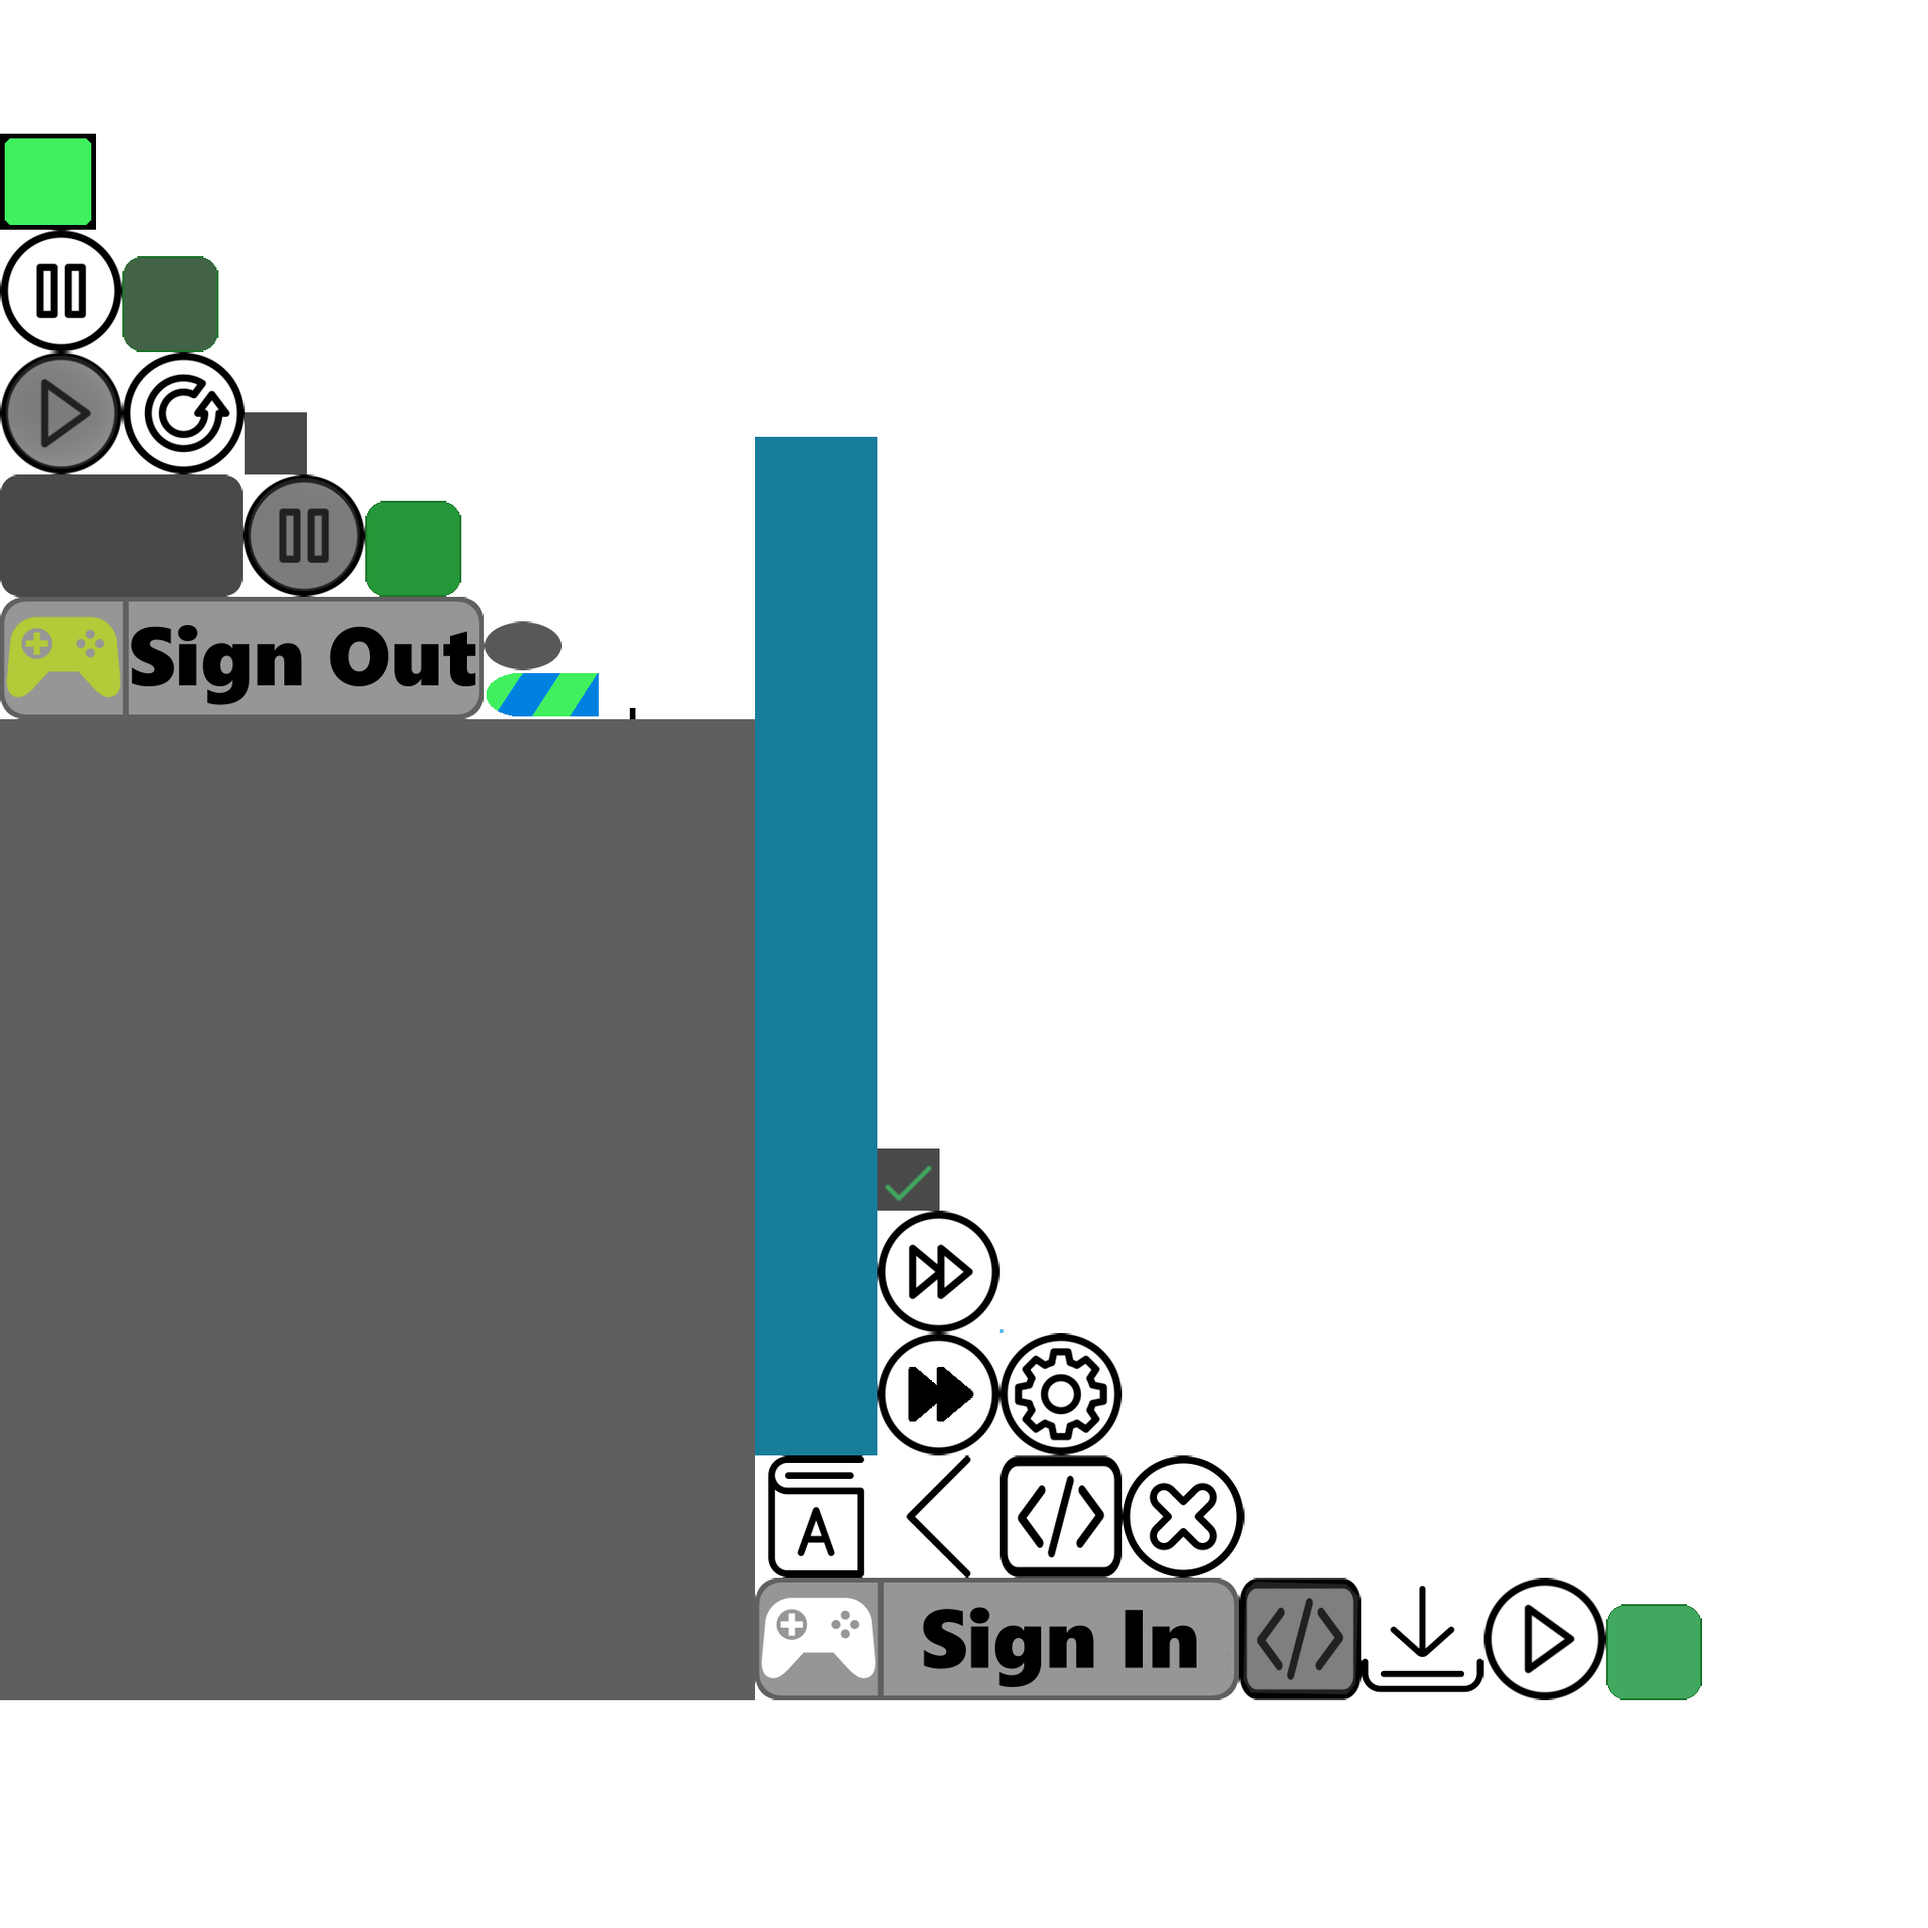
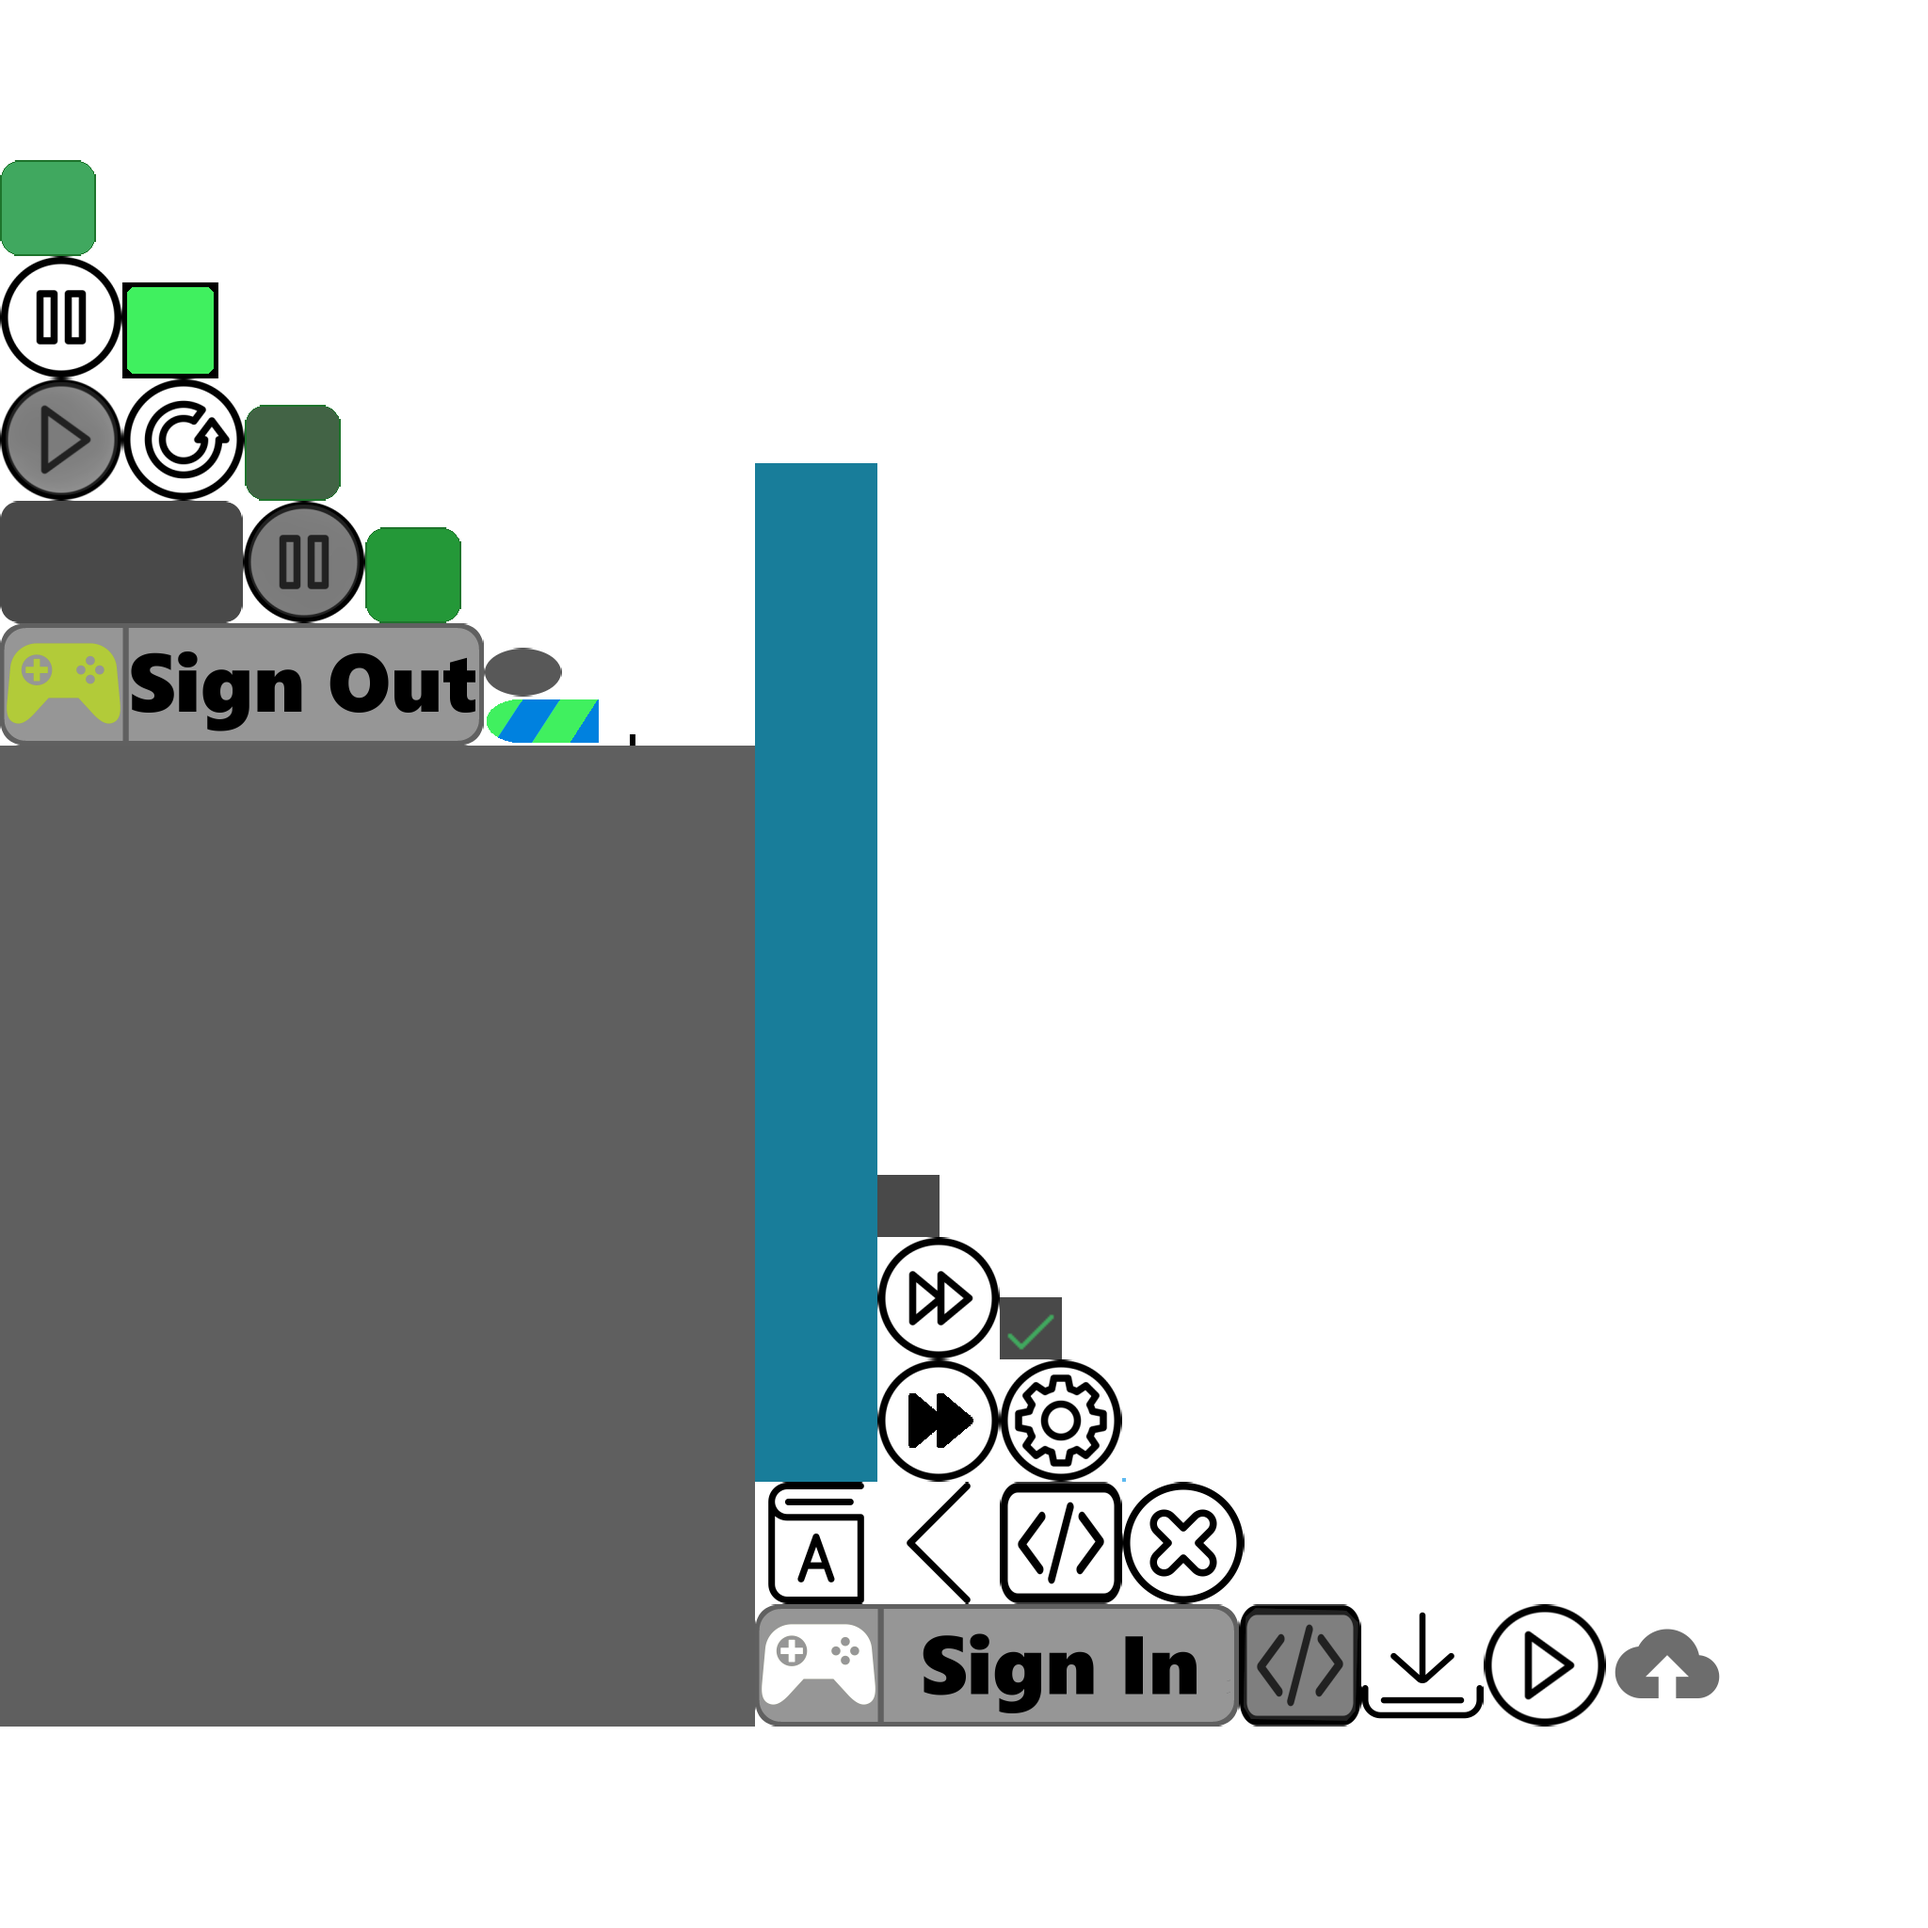
Dedicated Cloud Data screen

Changed region(s): [[0.0, 0.5938, 0.9062, 0.9062], [0.0, 0.0625, 0.4062, 0.4062], [0.375, 0.2188, 0.4688, 0.25]]

diff --git a/core/src/com/thelogicmaster/robot_recharge/screens/CloudScreen.java b/core/src/com/thelogicmaster/robot_recharge/screens/CloudScreen.java
@@ -1,10 +1,81 @@
 package com.thelogicmaster.robot_recharge.screens;
 
+import com.badlogic.gdx.scenes.scene2d.Actor;
+import com.badlogic.gdx.scenes.scene2d.ui.Label;
+import com.badlogic.gdx.scenes.scene2d.ui.Table;
+import com.badlogic.gdx.scenes.scene2d.ui.TextButton;
+import com.badlogic.gdx.scenes.scene2d.utils.ChangeListener;
+import com.badlogic.gdx.utils.Base64Coder;
+import com.thelogicmaster.robot_recharge.GameSave;
+import com.thelogicmaster.robot_recharge.RobotAssets;
+import com.thelogicmaster.robot_recharge.RobotRecharge;
+import com.thelogicmaster.robot_recharge.ui.PaddedTextButton;
+import de.golfgl.gdxgamesvcs.gamestate.ILoadGameStateResponseListener;
+import de.golfgl.gdxgamesvcs.gamestate.ISaveGameStateResponseListener;
+
 public class CloudScreen extends MenuScreen {
+
+    private final Label userLabel;
+    private final TextButton loadButton, saveButton;
 
     public CloudScreen(RobotScreen previousScreen) {
         super(previousScreen);
 
+        Table cloudTable = new Table(skin);
+        cloudTable.setBackground("windowTen");
+        cloudTable.setBounds(uiViewport.getWorldWidth() / 2 - 700, uiViewport.getWorldHeight() / 2 - 400, 1400, 800);
+        cloudTable.pad(30);
 
+        userLabel = new Label("Not Connected", skin);
+        cloudTable.add(userLabel).padBottom(20).row();
+
+        loadButton = new PaddedTextButton("Load Cloud Save", skin);
+        cloudTable.add(loadButton).padBottom(10).row();
+
+        saveButton = new PaddedTextButton("Create Cloud Save", skin);
+        cloudTable.add(saveButton).padBottom(10).row();
+
+        loadButton.addListener(new ChangeListener() {
+            @Override
+            public void changed(ChangeEvent event, Actor actor) {
+                RobotRecharge.gameServices.loadGameState("save", new ILoadGameStateResponseListener() {
+                    @Override
+                    public void gsGameStateLoaded(byte[] gameState) {
+                        if (gameState != null)
+                            RobotRecharge.prefs.loadGameSave(RobotAssets.json.fromJson(GameSave.class, Base64Coder.decodeString(new String(gameState))));
+                    }
+                });
+            }
+        });
+        saveButton.addListener(new ChangeListener() {
+            @Override
+            public void changed(ChangeEvent event, Actor actor) {
+                // Encode save to base64 to ensure that blockly xml data doesn't break everything
+                RobotRecharge.gameServices.saveGameState("save",
+                        Base64Coder.encodeString(RobotAssets.json.toJson(RobotRecharge.prefs.getGameSave())).getBytes(),
+                        RobotRecharge.prefs.getUnlockedLevel(), new ISaveGameStateResponseListener() {
+                            @Override
+                            public void onGameStateSaved(boolean success, String errorCode) {
+
+                            }
+                        });
+            }
+        });
+
+        stage.addActor(cloudTable);
+    }
+
+    @Override
+    public void render(float delta) {
+        if (RobotRecharge.gameServices.isSessionActive()) {
+            userLabel.setText("Username: " + RobotRecharge.gameServices.getPlayerDisplayName());
+            saveButton.setDisabled(false);
+            loadButton.setDisabled(false);
+        } else {
+            saveButton.setDisabled(true);
+            loadButton.setDisabled(true);
+            userLabel.setText("Not Connected");
+        }
+        super.render(delta);
     }
 }

diff --git a/core/src/com/thelogicmaster/robot_recharge/screens/TitleScreen.java b/core/src/com/thelogicmaster/robot_recharge/screens/TitleScreen.java
@@ -4,10 +4,7 @@ import com.badlogic.gdx.Application;
 import com.badlogic.gdx.Gdx;
 import com.badlogic.gdx.graphics.Texture;
 import com.badlogic.gdx.scenes.scene2d.Actor;
-import com.badlogic.gdx.scenes.scene2d.ui.Button;
-import com.badlogic.gdx.scenes.scene2d.ui.Label;
-import com.badlogic.gdx.scenes.scene2d.ui.Table;
-import com.badlogic.gdx.scenes.scene2d.ui.TextButton;
+import com.badlogic.gdx.scenes.scene2d.ui.*;
 import com.badlogic.gdx.scenes.scene2d.utils.ChangeListener;
 import com.thelogicmaster.robot_recharge.RobotRecharge;
 import com.thelogicmaster.robot_recharge.RobotUtils;
@@ -20,12 +17,14 @@ public class TitleScreen extends RobotScreen {
     private final SettingsScreen settingsScreen;
     private final TutorialsScreen tutorialsScreen;
     private final IterativeStack googleSignInStack;
+    private final CloudScreen cloudScreen;
 
     public TitleScreen() {
         setBackground(new Texture("titleScreen.png"));
         levelScreen = new LevelScreen(this);
         settingsScreen = new SettingsScreen(this);
         tutorialsScreen = new TutorialsScreen(this);
+        cloudScreen = new CloudScreen(this);
 
         Table table = new Table(skin);
         table.setBounds(uiViewport.getWorldWidth() / 2 - 400, 20, 800, uiViewport.getWorldHeight() - 40);
@@ -40,6 +39,11 @@ public class TitleScreen extends RobotScreen {
         TextButton exitButton = new PaddedTextButton("Quit Game", skin, "large");
         table.add(exitButton);
         stage.addActor(table);
+
+        ImageButton cloudButton = new ImageButton(skin, "cloudSave");
+        cloudButton.setPosition(uiViewport.getWorldWidth() - 138, uiViewport.getWorldHeight() - 138);
+        cloudButton.pack();
+        stage.addActor(cloudButton);
 
         if (Gdx.app.getType() == Application.ApplicationType.Android) {
             googleSignInStack = new IterativeStack();
@@ -91,6 +95,13 @@ public class TitleScreen extends RobotScreen {
             public void changed(ChangeEvent event, Actor actor) {
                 RobotUtils.playNavigationSound();
                 Gdx.app.exit();
+            }
+        });
+        cloudButton.addListener(new ChangeListener() {
+            @Override
+            public void changed(ChangeEvent event, Actor actor) {
+                RobotUtils.playNavigationSound();
+                RobotRecharge.instance.setScreen(cloudScreen);
             }
         });
     }

diff --git a/core/src/com/thelogicmaster/robot_recharge/screens/SettingsScreen.java b/core/src/com/thelogicmaster/robot_recharge/screens/SettingsScreen.java
@@ -54,38 +54,6 @@ public class SettingsScreen extends MenuScreen {
         settingsTable.add(effectsSlider).padBottom(10).padRight(20).left();
         settingsTable.add(effectsPercent).padBottom(10).minWidth(50).row();
 
-        TextButton loadSaveButton = new TextButton("Load Cloud Save", skin);
-        loadSaveButton.addListener(new ChangeListener() {
-            @Override
-            public void changed(ChangeEvent event, Actor actor) {
-                RobotRecharge.gameServices.loadGameState("save", new ILoadGameStateResponseListener() {
-                    @Override
-                    public void gsGameStateLoaded(byte[] gameState) {
-                        if (gameState != null)
-                            RobotRecharge.prefs.loadGameSave(RobotAssets.json.fromJson(GameSave.class, Base64Coder.decodeString(new String(gameState))));
-                    }
-                });
-            }
-        });
-        settingsTable.add(loadSaveButton).colspan(3).padBottom(10).row();
-
-        TextButton createSaveButton = new TextButton("Create Cloud Save", skin);
-        createSaveButton.addListener(new ChangeListener() {
-            @Override
-            public void changed(ChangeEvent event, Actor actor) {
-                // Encode save to base64 to ensure that blockly xml data doesn't break everything
-                RobotRecharge.gameServices.saveGameState("save",
-                        Base64Coder.encodeString(RobotAssets.json.toJson(RobotRecharge.prefs.getGameSave())).getBytes(),
-                        RobotRecharge.prefs.getUnlockedLevel(), new ISaveGameStateResponseListener() {
-                    @Override
-                    public void onGameStateSaved(boolean success, String errorCode) {
-
-                    }
-                });
-            }
-        });
-        settingsTable.add(createSaveButton).colspan(3).padBottom(10).row();
-
         if (RobotRecharge.platformUtils.getWindowModes().size > 0) {
             settingsTable.add(new Label("Window Mode", skin)).padBottom(300);
             final SelectBox<WindowMode> windowModeSelect = new SelectBox<>(skin);

diff --git a/README.md b/README.md
@@ -1,5 +1,7 @@
 [![Get it on Google Play](https://badgen.net/badge/icon/googleplay?icon=googleplay&label)](https://play.google.com/store/apps/details?id=com.thelogicmaster.robot_recharge)
 
+[GameJolt Page](https://gamejolt.com/games/robot-recharge/570956)
+
 # Robot Recharge
 A programming game where the goal is to guide a robot through various levels.
 Google Blockly, Python, Lua, PHP, and JavaScript are all implemented as ways to
